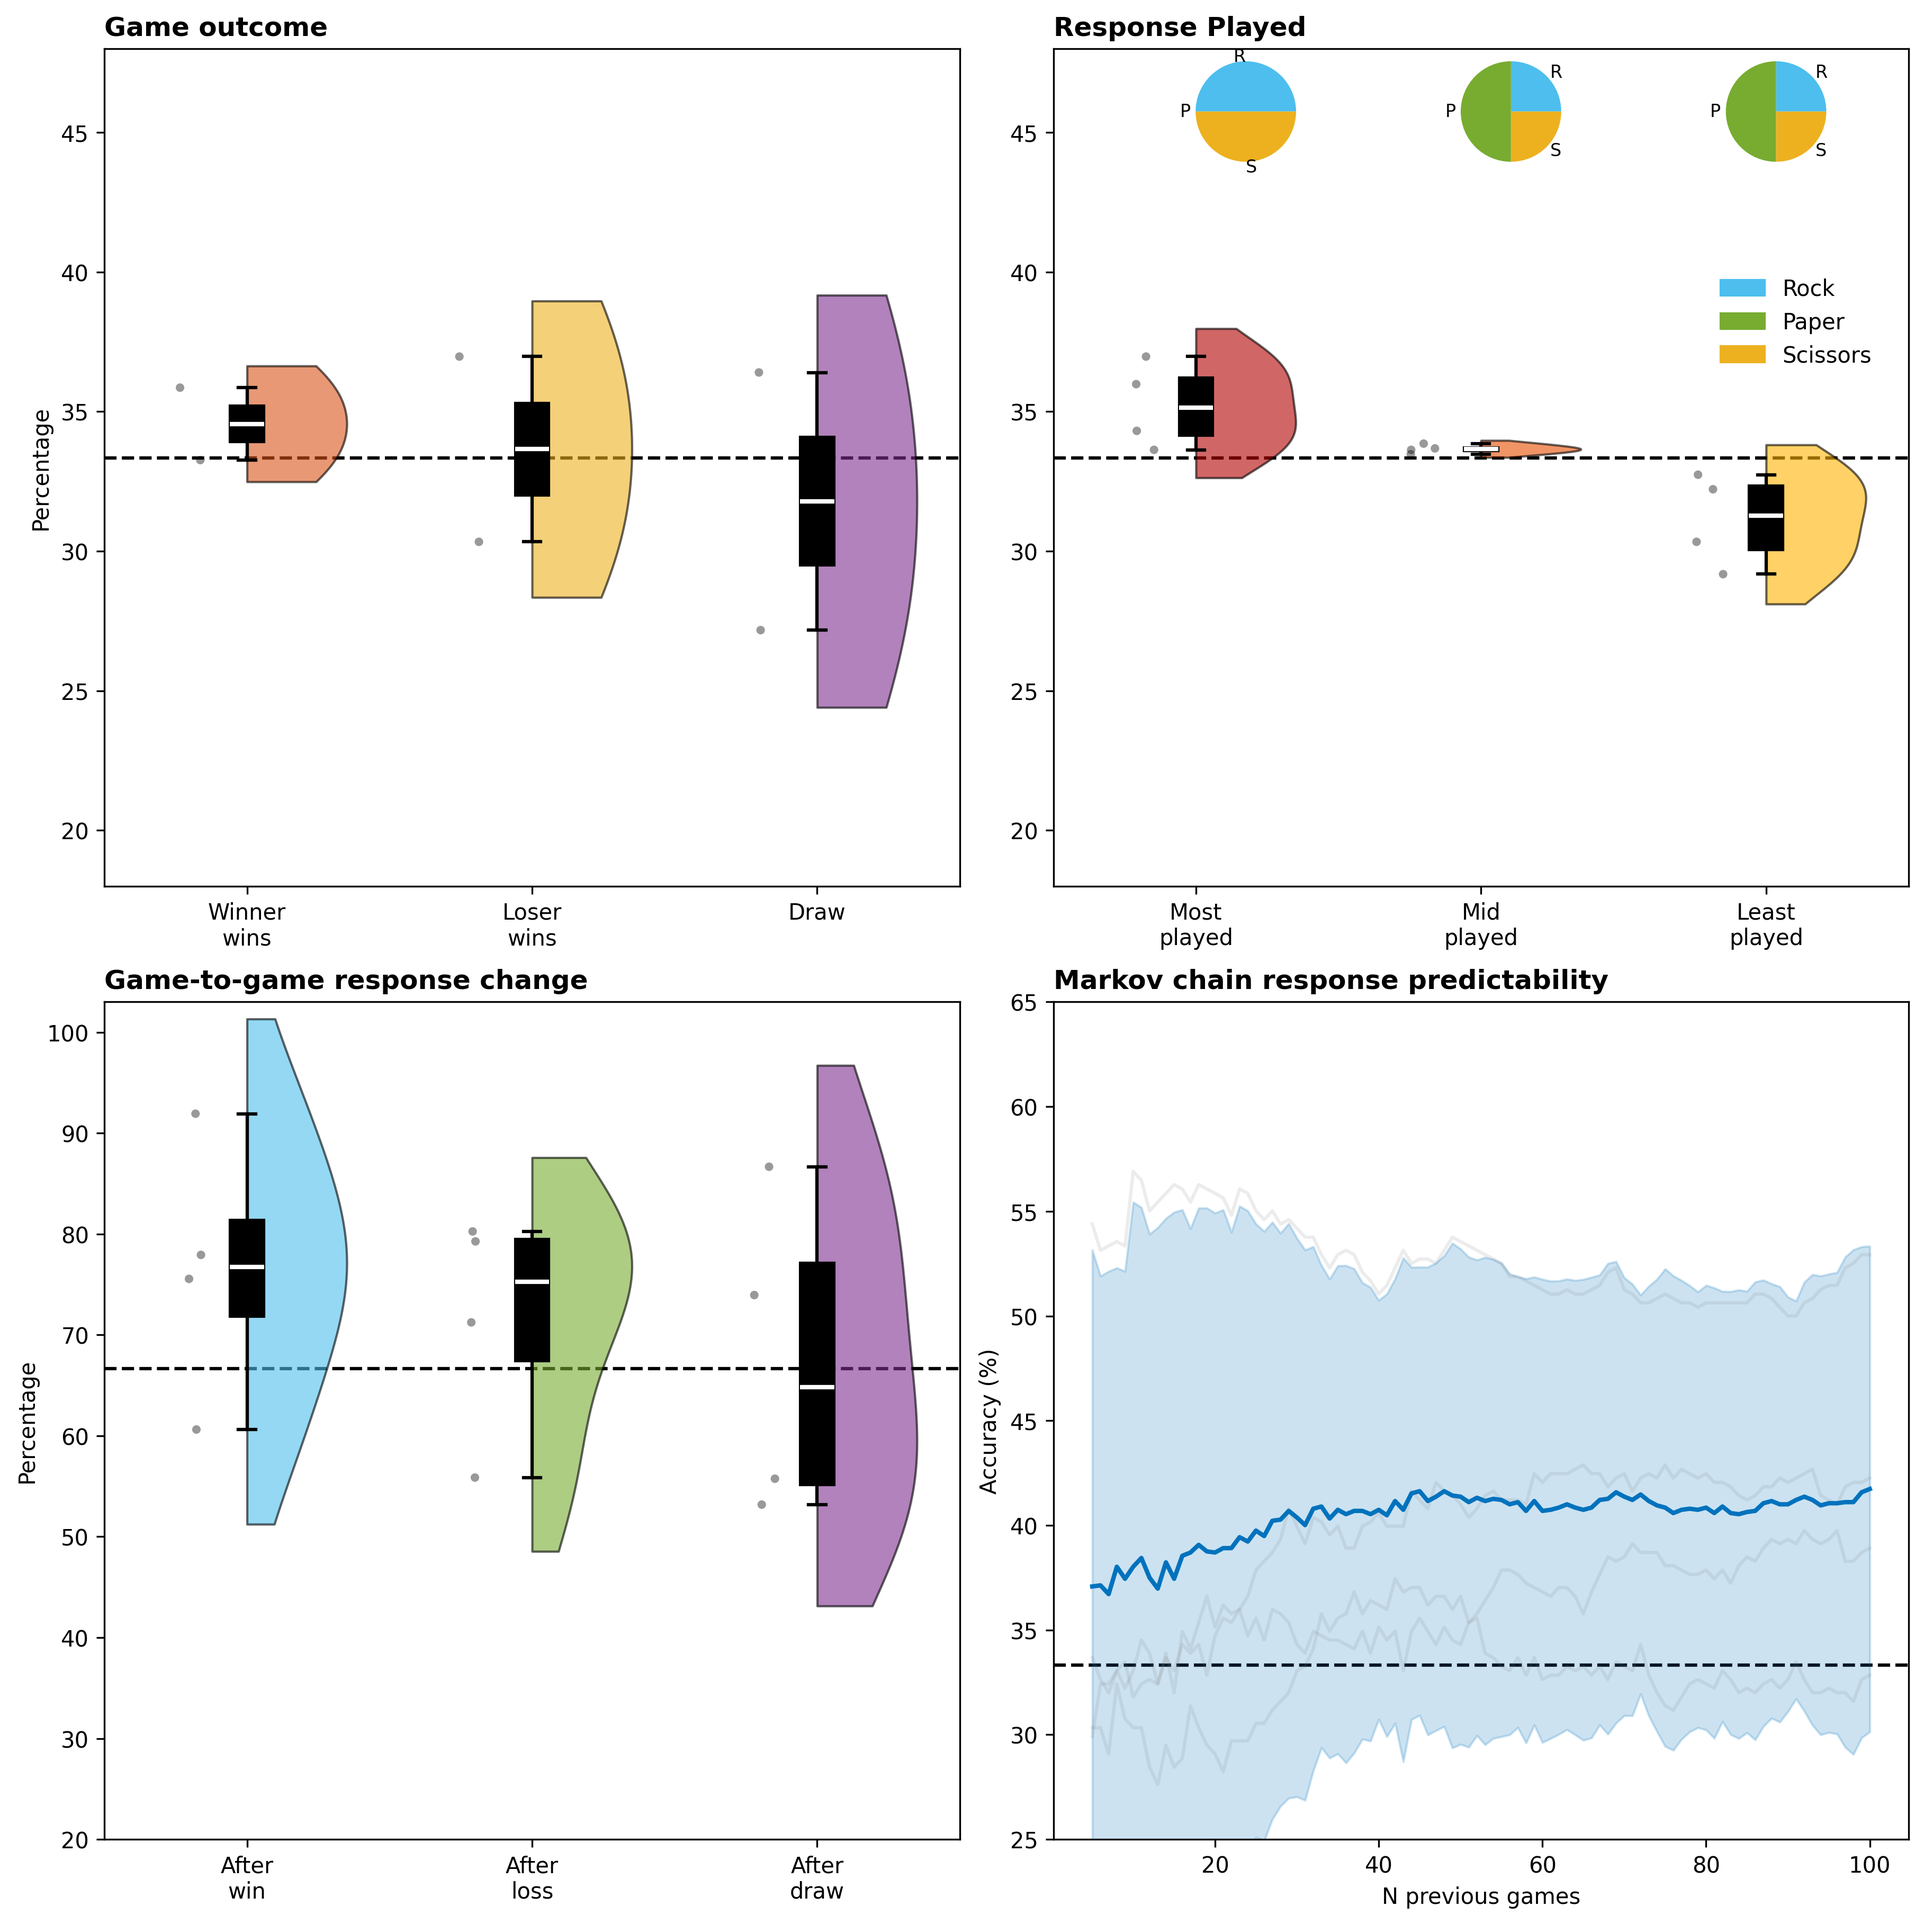
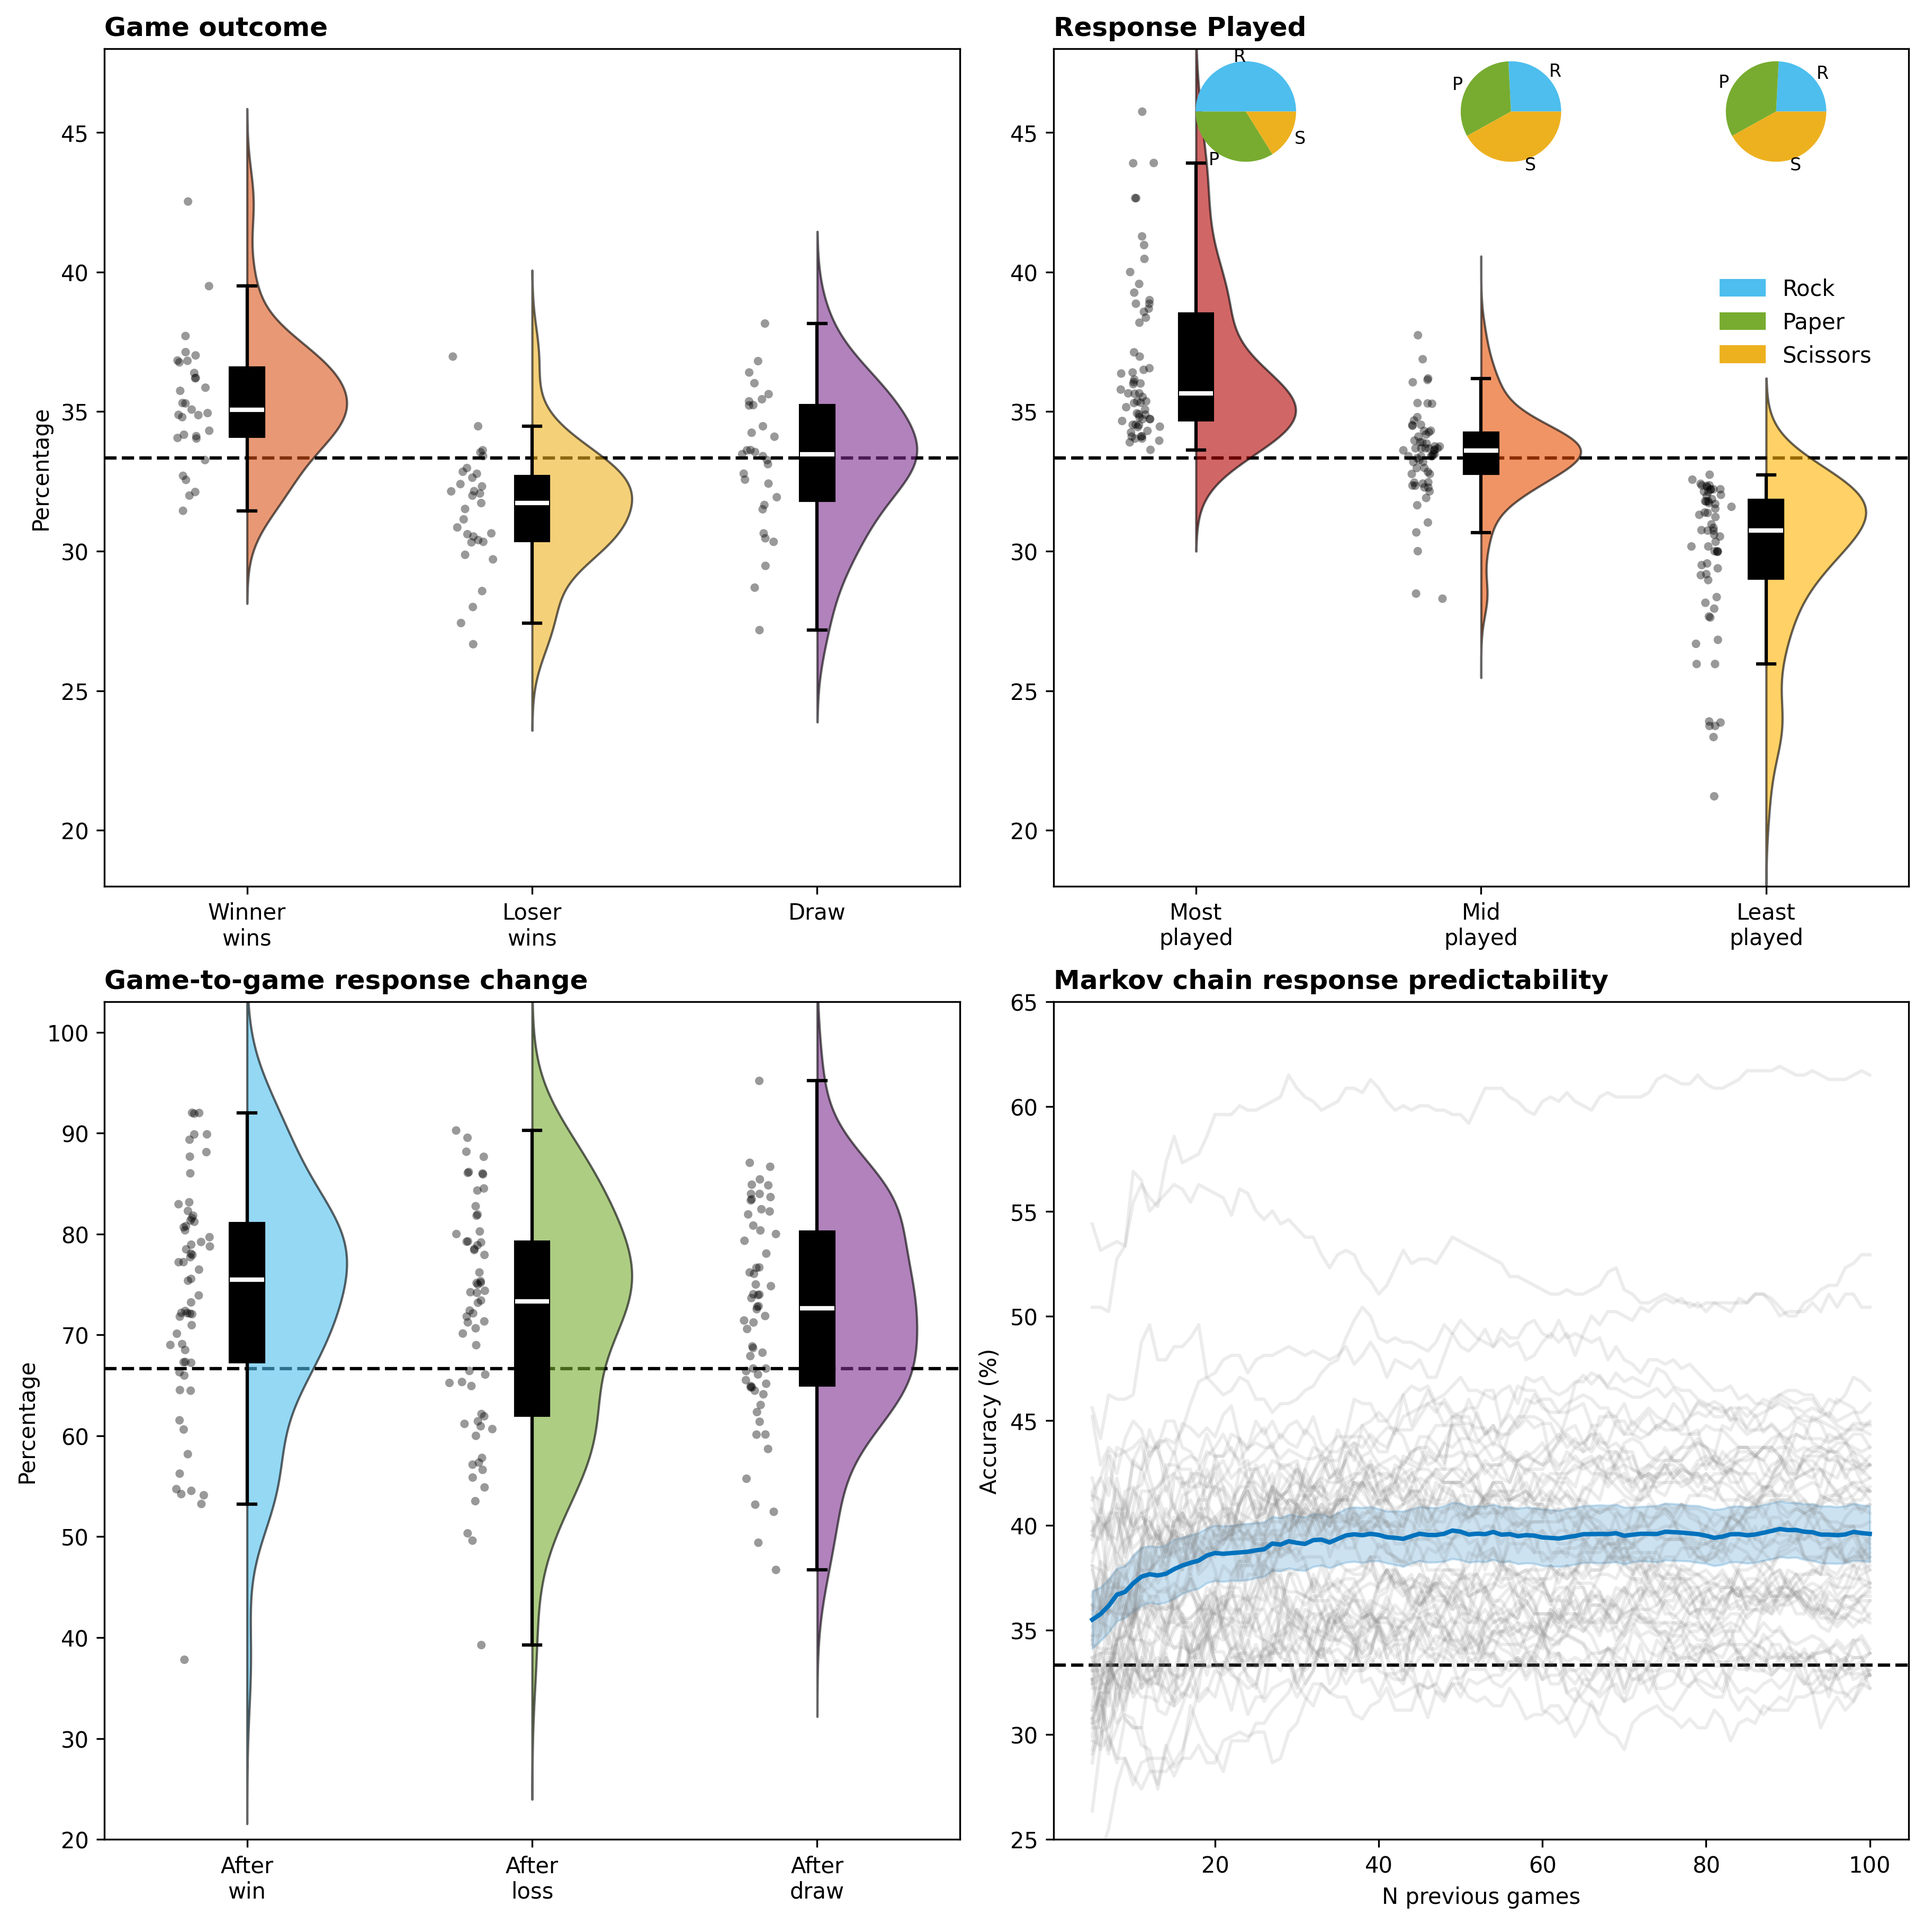
run with all subjects, log and output (for linear SVM)

diff --git a/EEG-PROJECT/results/plots/outputs.md b/EEG-PROJECT/results/plots/outputs.md
@@ -1,53 +1,7 @@
- 🏆 WINNERS VS. LOSERS STATS (USING R BAYESFACTOR) 🏆
-===========================================================================
+>>> DEBUG: DECODING STATISTICS <<<
 
---- Own response ---
-  Decision (0-2s):
-    Winners -> Peak Acc: 37.75% | Max BF10: 1.00
-    Losers  -> Peak Acc: 36.00% | Max BF10: 1.00
-  Response (2-4s):
-    Winners -> Peak Acc: 32.67% | Max BF10: 1.00
-    Losers  -> Peak Acc: 38.17% | Max BF10: 1.00
-  Feedback (4-5s):
-    Winners -> Peak Acc: 42.50% | Max BF10: 1.00
-    Losers  -> Peak Acc: 42.00% | Max BF10: 1.00
-
---- Opponent's response ---
-  Decision (0-2s):
-    Winners -> Peak Acc: 33.92% | Max BF10: 1.00
-    Losers  -> Peak Acc: 37.75% | Max BF10: 1.00
-  Response (2-4s):
-    Winners -> Peak Acc: 34.25% | Max BF10: 1.00
-    Losers  -> Peak Acc: 37.50% | Max BF10: 1.00
-  Feedback (4-5s):
-    Winners -> Peak Acc: 35.00% | Max BF10: 1.00
-    Losers  -> Peak Acc: 41.50% | Max BF10: 1.00
-
---- Own previous response ---
-  Decision (0-2s):
-    Winners -> Peak Acc: 33.08% | Max BF10: 1.00
-    Losers  -> Peak Acc: 40.92% | Max BF10: 1.00
-  Response (2-4s):
-    Winners -> Peak Acc: 37.42% | Max BF10: 1.00
-    Losers  -> Peak Acc: 45.08% | Max BF10: 1.00
-  Feedback (4-5s):
-    Winners -> Peak Acc: 30.50% | Max BF10: 1.00
-    Losers  -> Peak Acc: 35.17% | Max BF10: 1.00
-
---- Opponent's previous response ---
-  Decision (0-2s):
-    Winners -> Peak Acc: 34.83% | Max BF10: 1.00
-    Losers  -> Peak Acc: 37.25% | Max BF10: 1.00
-  Response (2-4s):
-    Winners -> Peak Acc: 38.83% | Max BF10: 1.00
-    Losers  -> Peak Acc: 36.33% | Max BF10: 1.00
-  Feedback (4-5s):
-    Winners -> Peak Acc: 35.83% | Max BF10: 1.00
-    Losers  -> Peak Acc: 41.75% | Max BF10: 1.00
-
-
-=== Loaded 4 subjects ===
-Subjects with any NaN: 0 / 4
+=== Loaded 62 subjects ===
+Subjects with any NaN: 0 / 62
 
 ==================================================
    OVERALL ACCURACY (Average across all 5 seconds)
@@ -55,25 +9,82 @@ Subjects with any NaN: 0 / 4
 ==================================================
 
 Own response:
-  Overall: 34.80%
-  Winners: 34.10%
-  Losers:  35.51%
-  -> Diff: -1.41%
+  Overall: 34.64%
+  Winners: 34.58%
+  Losers:  34.70%
+  -> Diff: -0.12%
 
 Opponent's response:
-  Overall: 32.84%
-  Winners: 31.08%
-  Losers:  34.60%
-  -> Diff: -3.52%
+  Overall: 33.38%
+  Winners: 33.79%
+  Losers:  32.96%
+  -> Diff: +0.83%
 
 Own previous response:
-  Overall: 34.47%
-  Winners: 31.58%
-  Losers:  37.36%
-  -> Diff: -5.78%
+  Overall: 34.04%
+  Winners: 34.00%
+  Losers:  34.08%
+  -> Diff: -0.08%
 
 Opponent's previous response:
-  Overall: 33.35%
-  Winners: 31.76%
-  Losers:  34.94%
-  -> Diff: -3.18%
+  Overall: 34.38%
+  Winners: 34.04%
+  Losers:  34.71%
+  -> Diff: -0.67%
+
+==================================================
+Debug plot saved to: project/ds006761\derivatives\debug_decoding.png
+
+>>> BAYES FACTOR OUTPUT FOR REPORT <<<
+
+===========================================================================
+ 🏆 WINNERS VS. LOSERS STATS (USING R BAYESFACTOR) 🏆
+===========================================================================
+
+--- Own response ---
+  Decision (0-2s):
+    Winners -> Peak Acc: 35.06% | Max BF10: 0.33
+    Losers  -> Peak Acc: 34.22% | Max BF10: 0.02
+  Response (2-4s):
+    Winners -> Peak Acc: 37.00% | Max BF10: 21.30
+    Losers  -> Peak Acc: 37.59% | Max BF10: 63.46
+  Feedback (4-5s):
+    Winners -> Peak Acc: 35.83% | Max BF10: 10.87
+    Losers  -> Peak Acc: 36.20% | Max BF10: 62.14
+
+--- Opponent's response ---
+  Decision (0-2s):
+    Winners -> Peak Acc: 34.08% | Max BF10: 0.01
+    Losers  -> Peak Acc: 33.69% | Max BF10: 0.00
+  Response (2-4s):
+    Winners -> Peak Acc: 34.53% | Max BF10: 0.13
+    Losers  -> Peak Acc: 33.69% | Max BF10: 0.00
+  Feedback (4-5s):
+    Winners -> Peak Acc: 37.11% | Max BF10: 152.04
+    Losers  -> Peak Acc: 35.75% | Max BF10: 4.70
+
+--- Own previous response ---
+  Decision (0-2s):
+    Winners -> Peak Acc: 34.69% | Max BF10: 0.08
+    Losers  -> Peak Acc: 34.54% | Max BF10: 0.13
+  Response (2-4s):
+    Winners -> Peak Acc: 35.18% | Max BF10: 1.71
+    Losers  -> Peak Acc: 35.94% | Max BF10: 35.84
+  Feedback (4-5s):
+    Winners -> Peak Acc: 34.11% | Max BF10: 0.02
+    Losers  -> Peak Acc: 34.58% | Max BF10: 0.28
+
+--- Opponent's previous response ---
+  Decision (0-2s):
+    Winners -> Peak Acc: 36.27% | Max BF10: 23.23
+    Losers  -> Peak Acc: 36.42% | Max BF10: 114.76
+  Response (2-4s):
+    Winners -> Peak Acc: 34.76% | Max BF10: 0.11
+    Losers  -> Peak Acc: 34.47% | Max BF10: 0.08
+  Feedback (4-5s):
+    Winners -> Peak Acc: 34.50% | Max BF10: 0.06
+    Losers  -> Peak Acc: 35.78% | Max BF10: 8.36
+
+==================================================
+Pipeline Complete! Check 'results/plots' for results.
+==================================================
